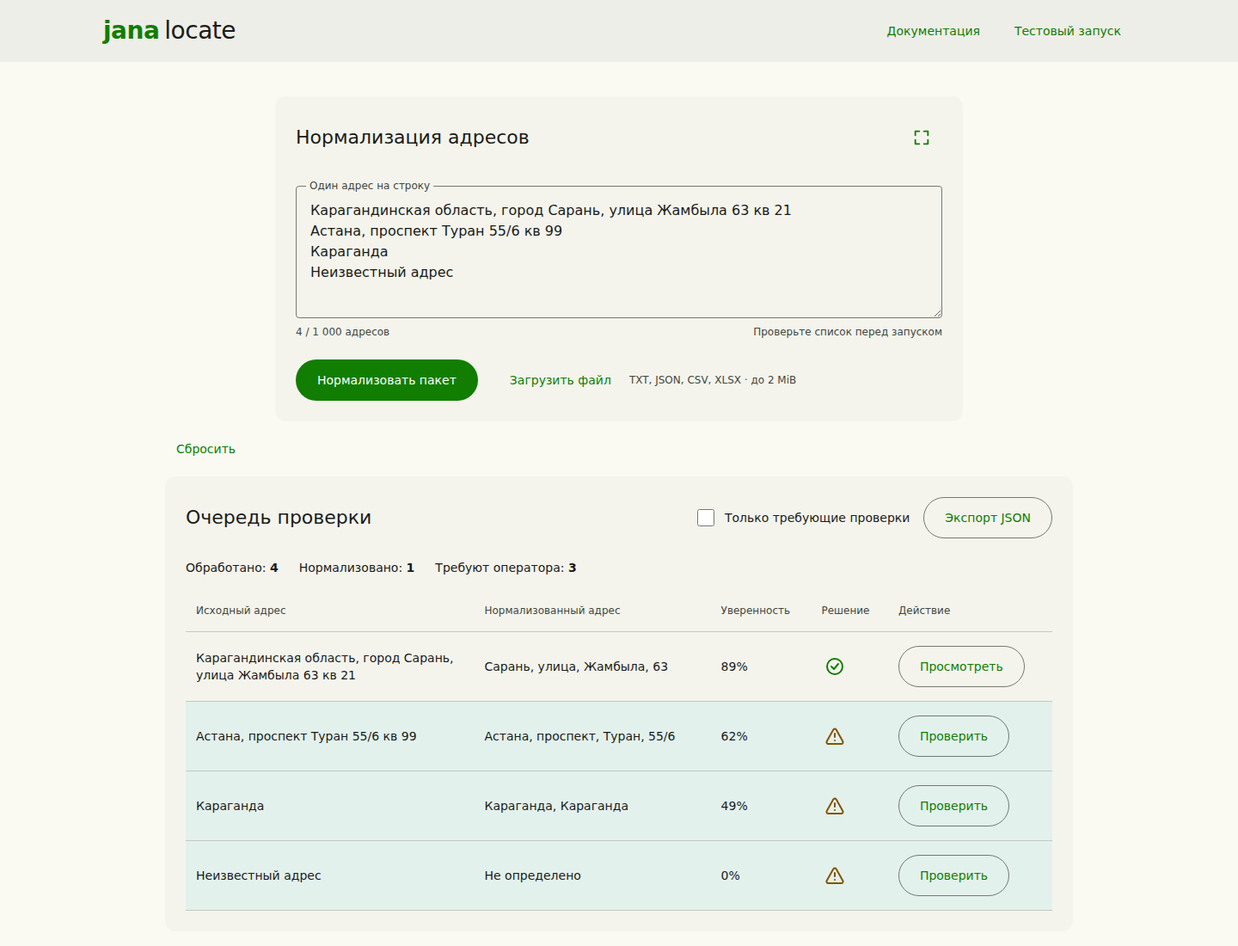
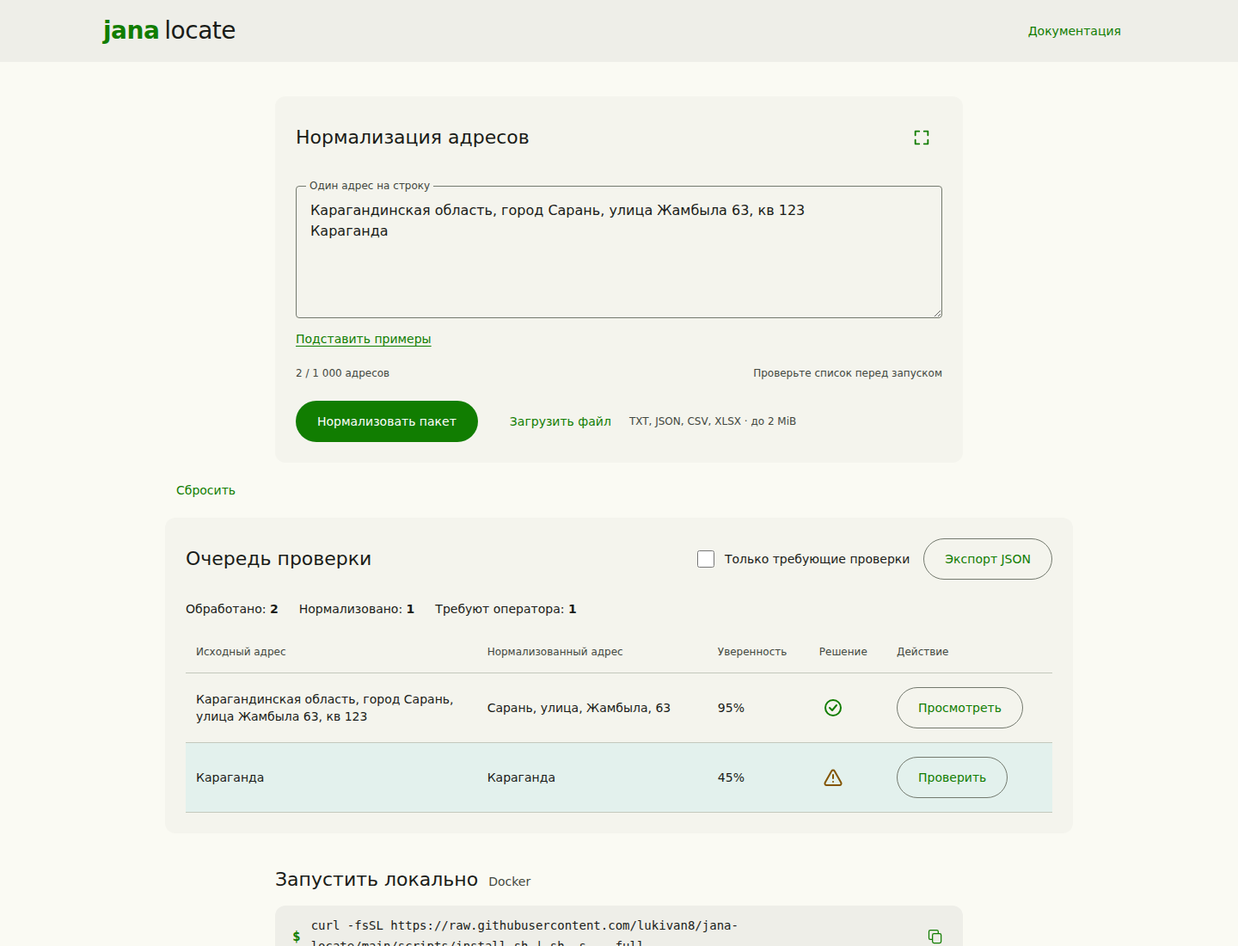
docs: guide hackathon reviewers through website, download and batch request

diff --git a/README.md b/README.md
@@ -1,107 +1,91 @@
 <p align="center">
-  <a href="https://jana.linker.kz"><img src="docs/assets/banner.svg" alt="Открыть Jana Locate — jana.linker.kz" width="100%"></a>
+  <a href="https://jana.linker.kz"><img src="docs/assets/banner.svg" alt="Jana Locate — нормализация адресов Казахстана" width="100%"></a>
 </p>
-
-<h2 align="center"><a href="https://jana.linker.kz">Открыть приложение → jana.linker.kz</a></h2>
-<p align="center"><strong>Готовая веб-версия — попробуйте прямо в браузере, без локальной установки.</strong></p>
 
 <p align="center">
   <a href="https://github.com/lukivan8/jana-locate/actions/workflows/ci.yml"><img src="https://github.com/lukivan8/jana-locate/actions/workflows/ci.yml/badge.svg" alt="Проверки приложения"></a>
-  <a href="https://github.com/lukivan8/jana-locate/actions/workflows/docs.yml"><img src="https://github.com/lukivan8/jana-locate/actions/workflows/docs.yml/badge.svg" alt="Проверки документации и примеров"></a>
   <a href="LICENSE"><img src="https://img.shields.io/badge/лицензия-MIT-315d38" alt="Лицензия MIT"></a>
   <img src="https://img.shields.io/badge/география-Казахстан-315d38" alt="География: Казахстан">
 </p>
 
 # Jana Locate
 
-**Превратите адресную строку в структурированные поля и подключите нормализацию к своему сервису по HTTP.** Jana Locate разбирает адреса Казахстана, сохраняет исходный ввод, показывает неизвестные поля и неоднозначности. Для проверки результатов есть веб-интерфейс, для файлов и PostgreSQL — локальный CLI.
+**Адреса Казахстана → структурированные поля → проверка спорных записей → JSON.**
 
-[**Открыть приложение ↗**](https://jana.linker.kz) · [Быстрый запуск](#быстрый-запуск-готовые-контейнеры) · [Подключение API](docs/integration.md) · [Примеры кода](examples/http/README.md) · [Документация](docs/README.md) · [Сообщить об ошибке](https://github.com/lukivan8/jana-locate/issues/new/choose)
+Jana Locate выделяет населённый пункт, область, район, улицу, дом и детали доставки из свободного текста. Сервис сохраняет исходный ввод, показывает неизвестные поля и предлагает оператору разрешить неоднозначность. Подключается к вашему приложению по HTTP; после подготовки локальных образов работает без интернета и внешних AI API.
 
-> [!TIP]
-> **Организаторам: [запустите Docker API](#только-api--скачать-и-запустить-одной-командой), затем [отправьте batch JSON](#первый-batch-запрос-после-запуска).** OpenAPI запущенного контейнера: [`http://localhost:8080/openapi.json`](http://localhost:8080/openapi.json). Для знакомства в браузере доступен [jana.linker.kz](https://jana.linker.kz).
+[**Попробовать на сайте ↗**](https://jana.linker.kz/geocoder) · [Скачать и запустить](#скачать-и-запустить-v020) · [Отправить batch-запрос](#первый-batch-запрос) · [Документация](docs/README.md)
 
-## Релиз для хакатона — v0.2.0
+## Первый запуск на сайте
 
-[Сценарий показа и запуск из исходников](docs/hackathon-demo.md) · [Скачать релиз](https://github.com/lukivan8/jana-locate/releases/tag/v0.2.0). Версия включает libpostal, справочники и компактную числовую CRF-модель. `make demo` собирает полный стенд; после сборки обработка работает офлайн. Готовые контейнеры 0.1.0 ниже относятся к предыдущему выпуску.
+Установка и регистрация не нужны.
 
-## Что можно сделать
+1. Откройте [разбор одного адреса](https://jana.linker.kz/geocoder).
+2. Вставьте строку ниже и нажмите **«Разобрать адрес»**.
+3. Сравните выделенные поля с исходной строкой.
 
-| Задача | Как использовать Jana Locate |
+```text
+Павлодар, улица Тестовая, дом 73; 41 пәтер; 2 кіреберіс; 4 қабат
+```
+
+| Поле | Результат |
 | --- | --- |
-| Нормализовать адрес при создании заказа | Вызвать `POST /v1/normalize` из своего backend |
-| Обработать накопленные адреса | Отправлять пакеты до 1000 записей, сохраняя ID и порядок |
-| Проверить спорные результаты | Открыть веб-интерфейс, исправить поля и экспортировать JSON |
-| Обработать колонку PostgreSQL | Запустить локальный CLI: снимок → нормализация → проверка → явная публикация |
-| Работать с файлами без БД | Передать текстовый или JSON-файл в CLI |
-| Развернуть в закрытой сети | Заранее собрать образы; при работе загрузка моделей и внешние API не нужны |
+| Область / населённый пункт | Павлодарская область / Павлодар |
+| Улица / дом | улица Тестовая / 73 |
+| Квартира / подъезд / этаж | 41 / 2 / 4 |
 
-Нормализация выделяет область, населённый пункт, район, жилой массив, улицу, дом и детали доставки. Например, из строки `Астана, проспект Туран 55/6 кв 99` извлекаются компоненты адреса; неизвестные значения остаются `null`. Конкретный результат зависит от режима парсера и снимка справочников.
+Пример синтетический: он показывает смешанный русский и казахский ввод, а не подтверждает существование здания. Неизвестные значения остаются `null`.
 
-## Как нормализуется адрес
+**Для проверки пакета** откройте [главную страницу](https://jana.linker.kz), вставьте несколько адресов — по одному на строку — или загрузите TXT, JSON, CSV, XLSX. Нажмите «Нормализовать пакет», откройте спорную запись, исправьте поля и нажмите «Подтвердить адрес». Задание сохраняется по ссылке и восстанавливается после обновления страницы; «Экспорт JSON» скачивает результаты.
 
-На [jana.linker.kz](https://jana.linker.kz) работает пайплайн **libpostal + справочники Казахстана + компактная CRF-модель**:
+Попробуйте отдельную строку `Караганда`: одно название совместимо с городом и селом. Интерфейс позволяет явно выбрать населённый пункт по справочнику.
 
-1. **Подготовка.** Система сохраняет исходную строку и очищает рабочую копию от невидимых символов и лишних пробелов.
-2. **Разбор.** libpostal выделяет компоненты адреса, а правила явных обозначений дополняют их по маркерам вроде `дом`, `кв`, `подъезд` и `этаж`.
-3. **Справочники.** КАТО и OSM помогают сопоставить названия и их варианты, согласовать населённый пункт с областью и дополнить район по подготовленным связям улиц и домов. Неоднозначности передаются оператору вместе с результатом.
-4. **Числовая модель.** Обученная на размеченных синтетических адресах CRF определяет по контексту дом, квартиру, подъезд и этаж. Проверенные предложения дополняют пустые поля, сохраняя результат основного разбора. Веса модели занимают около **211 КиБ**.
-5. **Ответ.** API возвращает структурированные поля, оценку уверенности, статус и предупреждения с сохранением ID и порядка записей. Весь процесс работает офлайн на заранее подготовленных моделях и справочниках.
+![Jana Locate: пакет адресов и очередь проверки](docs/assets/workspace.png)
 
-Например, в строке `Павлодар, улица Тестовая, дом 73; 41 пәтер; 2 кіреберіс; 4 қабат` основной разбор выделяет город, улицу и дом, а числовая модель дополняет **квартиру 41, подъезд 2 и этаж 4**. Пример синтетический.
+*Актуальный интерфейс на синтетических адресах, native libpostal и справочниках Казахстана.*
 
-## Быстрый запуск: готовые контейнеры
+[Сценарий показа на 3–5 минут](docs/hackathon-demo.md) · [2000 синтетических примеров](https://jana.linker.kz/examples)
 
-**Локальный Jana Locate полностью автономен.** Модели libpostal и справочники Казахстана уже включены в образ. После скачивания контейнеров обработка работает без интернета, hosted API, регистрации и внешних ключей. Go, Node.js, Python, Git и сборка исходников для установки не нужны.
+## Скачать и запустить v0.2.0
 
-Для API достаточно **Docker Engine или Docker Desktop**. Для комплектов с установщиком дополнительно нужны Compose v2, curl и shell. Последний комплект готовых контейнеров — **[0.1.0](https://github.com/lukivan8/jana-locate/releases/tag/v0.1.0)** для `linux/amd64`. На ARM используется эмуляция amd64 средствами Docker; нативный ARM-образ пока не выпускается.
-
-### API + Web + CLI — комплект по умолчанию
+[**Скачать релиз v0.2.0**](https://github.com/lukivan8/jana-locate/releases/tag/v0.2.0) — исходники, компактная CRF-модель и контрольные суммы. Для локального запуска нужны Docker Engine/Desktop с Compose v2, `make`, `curl` и `tar` (Linux, macOS или WSL).
 
 ```sh
-curl -fsSL https://raw.githubusercontent.com/lukivan8/jana-locate/main/scripts/install.sh | sh -s -- full
+curl --fail --location \
+  https://github.com/lukivan8/jana-locate/releases/download/v0.2.0/jana-locate-v0.2.0-source.tar.gz \
+  --output jana-locate-v0.2.0-source.tar.gz
+tar -xzf jana-locate-v0.2.0-source.tar.gz
+cd jana-locate-v0.2.0
+make demo
 ```
 
-Полный комплект включает автономный API на `http://localhost:8080`, встроенный веб-интерфейс на `http://localhost:8095` и CLI для файлов и PostgreSQL. Локальный интерфейс открывается без логина и пароля. PostgreSQL автоматически не устанавливается: можно подключить свою базу или работать с файлами. Порты по умолчанию доступны только на этой машине.
+Первая сборка скачивает зависимости и модели libpostal: подготовьте её до показа, с интернетом. Для работы стенда нужно около **4 GiB свободной памяти сверх Docker и ОС**. После сборки нормализация не требует подключения к публичному сайту.
 
-После установки в терминале появятся URL OpenAPI и команда batch-запроса, а в `jana-locate/` — готовый `batch.example.json`. [Проверить свои адреса через API →](#первый-batch-запрос-после-запуска)
+| Что открыть | Локальный URL |
+| --- | --- |
+| Веб-интерфейс | [localhost:13008](http://localhost:13008) |
+| HTTP API | `http://localhost:18088` |
+| OpenAPI | [localhost:18088/openapi.json](http://localhost:18088/openapi.json) |
+
+`make demo-status` показывает состояние, `make demo-stop` останавливает стенд с сохранением заданий и исправлений. [Повторный запуск без скачиваний](docs/hackathon-demo.md#локальный-запуск).
+
+> Готовые контейнеры и установщик **v0.1.0** относятся к предыдущему выпуску без нового числового слоя. Для проверки актуального решения используйте сайт или сборку v0.2.0 выше. [Установка готовых контейнеров](docs/quickstart.md).
+
+## Первый batch-запрос
+
+Можно сразу вызвать публичный API из терминала с `curl`; скачивать проект для этого не требуется. Адреса будут отправлены на `jana.linker.kz`. Для автономной обработки используйте запущенный локальный API с тем же контрактом.
+
+**1. Выберите API и скачайте его OpenAPI:**
 
 ```sh
-cd jana-locate
-./jana status      # состояние контейнеров
-./jana down        # остановить с сохранением данных
-./jana up          # снова запустить установленные образы, без скачивания и сборки
+JANA_API_URL=https://jana.linker.kz
+curl --fail --retry 30 --retry-all-errors --retry-delay 2 "$JANA_API_URL/readyz"
+curl --fail-with-body "$JANA_API_URL/openapi.json" --output openapi.json
 ```
 
-### Только API — скачать и запустить одной командой
+Для локального v0.2.0 замените первую строку на `JANA_API_URL=http://localhost:18088`. Следующие команды выполняйте в том же терминале. В Postman можно импортировать скачанный `openapi.json`.
 
-```sh
-docker run -d --name jana-locate --platform linux/amd64 \
-  --restart unless-stopped -p 127.0.0.1:8080:8080 \
-  -v jana-locate-api-data:/data \
-  ghcr.io/lukivan8/jana-locate-api:0.1.0
-```
-
-Docker сам скачает готовый образ и запустит API на `http://localhost:8080`. Первый старт загружает модели в память; дождитесь успешного ответа `/readyz` перед отправкой адресов. Для этого пути не нужны Compose, Git, компиляторы, ключи внешних сервисов или подготовка моделей. Данные сохраняются в томе; остановка — `docker stop jana-locate`, повторный запуск — `docker start jana-locate`.
-
-Если нужен единый launcher для управления контейнерами, используйте [установщик](docs/quickstart.md) в режиме `api`. [Исходник установщика](scripts/install.sh).
-
-### Первый batch-запрос после запуска
-
-Команды выполняются **на вашем компьютере**, рядом с Docker; клонировать репозиторий и заходить в контейнер не нужно. Понадобятся curl и shell (Linux, macOS или WSL).
-
-**1. Дождитесь готовности и скачайте OpenAPI именно запущенного API:**
-
-```sh
-curl --fail --retry 30 --retry-all-errors --retry-delay 2 http://localhost:8080/readyz
-curl --fail-with-body http://localhost:8080/openapi.json -o openapi.json
-```
-
-Контракт также можно открыть по [`http://localhost:8080/openapi.json`](http://localhost:8080/openapi.json) или импортировать этот URL/файл в Postman. В исходниках он лежит в [`backend/api/openapi.json`](backend/api/openapi.json).
-
-**2. Создайте `batch.example.json` с несколькими адресами:**
-
-Если использовали установщик, выполните `cd jana-locate` (или перейдите в выбранный каталог установки): пример уже лежит там, этот шаг можно пропустить.
+**2. Создайте `batch.example.json`:**
 
 ```sh
 cat > batch.example.json <<'JSON'
@@ -109,14 +93,10 @@ cat > batch.example.json <<'JSON'
   "records": [
     {
       "id": "test-1",
-      "raw_address": "Астана, проспект Туран 55/6 кв 99"
+      "raw_address": "Павлодар, улица Тестовая, дом 73; 41 пәтер; 2 кіреберіс; 4 қабат"
     },
     {
       "id": "test-2",
-      "raw_address": "Алматы, улица Абая 10, подъезд 2, этаж 3"
-    },
-    {
-      "id": "test-3",
       "raw_address": "Караганда"
     }
   ]
@@ -124,117 +104,49 @@ cat > batch.example.json <<'JSON'
 JSON
 ```
 
-Примеры синтетические; последняя строка намеренно неоднозначна. Для своей проверки замените записи на тестовые адреса, сохранив поля `id` и `raw_address`.
+Это синтетические примеры. Для своей проверки замените строки, сохранив поля `id` и `raw_address`.
 
-**3. Отправьте файл и сохраните ответ:**
+**3. Отправьте пакет и сохраните ответ:**
 
 ```sh
-curl --fail-with-body --max-time 310 http://localhost:8080/v1/normalize \
-  -H 'Content-Type: application/json' \
+curl --fail-with-body --max-time 310 "$JANA_API_URL/v1/normalize" \
+  --header 'Content-Type: application/json' \
   --data-binary @batch.example.json \
   --output batch-results.json
 cat batch-results.json
 ```
 
-Это синхронный batch endpoint: ответ `{"results":[...]}` сразу содержит по одному результату на каждую запись в исходном порядке, с теми же `id` и `raw_address`. В установке через скрипт `batch.example.json` уже находится в каталоге `jana-locate/`, а команда печатается после запуска. Если меняли порт, замените `8080` в URL.
+Ответ `{"results":[...]}` содержит результат для каждой записи **в исходном порядке, с теми же ID и точными исходными строками**. У `test-1` будут квартира `41`, подъезд `2`, этаж `4`; у `test-2` — статус `needs_review` и предупреждение о неоднозначности населённого пункта.
 
-Для оценки качества сравните адресные поля из `results` со своим эталоном по ID/позиции. HTTP 200 означает успешную обработку, а `status`, `warnings` и `null` показывают полноту и неоднозначность; `confidence` не является измеренной точностью. **[Лимиты, поля результата и ошибки →](docs/quickstart.md#первый-batch-запрос-после-запуска)**
+Лимиты одного запроса: **1–1000 записей**, до **4096 байт UTF-8 на адрес**, тело до **2 MiB**. Передавайте ID строками, особенно большие числовые ключи. HTTP 200 означает, что пакет обработан; оценивайте поля, `status` и `warnings`. `confidence` — эвристическая оценка для приоритизации проверки, а не измеренная точность.
 
-### Другие комплекты
+[Поля ответа и ошибки](backend/docs/consumer-guide.md) · [Интеграция](docs/integration.md) · [Примеры JavaScript, Python и Go](examples/http/README.md) · [OpenAPI](backend/api/openapi.json)
 
-Укажите `api` для одного нормализатора или `web` для API и отдельного веб-интерфейса на `http://localhost:3000`. Без аргумента установщик выбирает `full`.
-
-### Hosted API — без локального нормализатора
-
-Если размещать нормализатор у себя не требуется, вызывайте **`https://jana.linker.kz/v1/normalize`** с тем же JSON-контрактом. [Пример подключения к hosted API](docs/integration.md#локальный-и-hosted-api).
-
-Локальный интерфейс/CLI можно использовать с hosted API:
-
-```sh
-curl -fsSL https://raw.githubusercontent.com/lukivan8/jana-locate/main/scripts/install.sh | sh -s -- hosted
-```
-
-Этот вариант скачивает только контейнер интерфейса/CLI и отправляет адреса на `jana.linker.kz`. Пароль PostgreSQL остаётся локально. Для полностью автономной обработки выбирайте `api`, `web` или `full`.
-
-## Подключение к своему сервису
-
-Jana Locate — отдельный HTTP-сервис. Выберите свой автономный экземпляр или hosted endpoint `https://jana.linker.kz`; формат запросов одинаков.  Ваше приложение отправляет адреса и получает JSON; ему не нужны Go, Node.js, доступ к исходникам или прямой доступ к справочнику.
+## Как устроено решение
 
 ```text
-Ваш сервис ── POST /v1/normalize ──► Jana Locate
-           ◄── поля, статус, предупреждения ──
+Свободный текст → libpostal → правила и КАТО/OSM → числовая CRF → HTTP JSON
+                                                               ↓
+                                              проверка оператором и экспорт
 ```
 
-- Передавайте ID строками, особенно если они превышают безопасный диапазон JavaScript.
-- Сохраняйте исходный адрес вместе с результатом; `null` означает, что поле не определено.
-- Направляйте `needs_review` и `unmatched` на проверку по правилам вашего продукта.
-- `matched` означает полноту основных полей без выявленной неоднозначности. Это не подтверждение существования дома или географической позиции.
-- `confidence` — эвристическая оценка для приоритизации проверки, а не измеренная вероятность правильного ответа.
+- **Согласование со справочниками Казахстана.** Названия и варианты сопоставляются с КАТО/OSM, согласуются населённый пункт и область, район дополняется по подготовленным свидетельствам. В снимке 66 339 сущностей и 1 078 711 адресных свидетельств; покрытие частичное.
+- **Компактное числовое дополнение.** Собственная CRF-модель с весами около 211 КиБ дополняет пустые дом, квартиру, подъезд и этаж. Заполненные поля и географические кандидаты сохраняются; при отказе слоя остаётся основной разбор. Основную память системы занимает libpostal.
+- **Сохранение неоднозначности.** Сервис не выбирает произвольный город или село с одинаковым названием. Оператор видит варианты и может явно выбрать сущность.
+- **Полный процесс проверки.** Пакеты, исправления и экспорт доступны в браузере. Локальный CLI работает с файлами и PostgreSQL: исходная таблица читается, публикация в связанную таблицу выполняется явно, пароль БД остаётся локально.
 
-**[Руководство подключения →](docs/integration.md)** · [JavaScript](examples/http/normalize.mjs) · [Python](examples/http/normalize.py) · [Go](examples/http/go/main.go) · [OpenAPI](backend/api/openapi.json)
+[Архитектура](docs/architecture.md) · [Справочники и происхождение данных](backend/docs/reference.md) · [CLI для файлов и PostgreSQL](cli/README.md)
 
-## Проверка результатов в браузере
+## Проверки и ограничения
 
-**[Открыть готовое приложение на jana.linker.kz →](https://jana.linker.kz)** Для локального запуска интерфейс доступен на `http://localhost:3000`.
+Релиз v0.2.0 проверен Go race-тестами и vet, сборкой и проверкой типов frontend, Python-тестами числового слоя и **49 браузерными сценариями**: 33 для frontend и 16 для CLI с PostgreSQL. Проверены desktop и 390×844, исправление и экспорт, сохранение данных после перезапуска, отказ числового сервиса и работа без внешней сети. [Подробности проверки](docs/hackathon-demo.md#проверки-выпуска).
 
-![Интерфейс Jana Locate: импорт адресов и очередь проверки](docs/assets/workspace.png)
+География — **Казахстан**. Нормализация не выдаёт координаты и не подтверждает существование здания. `matched` означает полноту основных полей без выявленной неоднозначности. Независимая точность на реальных адресах пока не заявляется; демонстрационные примеры и оценки синтетические. [Результаты и ограничения числового слоя](docs/numeric-recovery-results.md).
 
-*Скриншот актуального приложения на синтетических адресах. Резервный режим без native libpostal явно показывает предупреждения.*
+У API нет встроенной авторизации. Для собственного публичного развёртывания нужны TLS, аутентификация и ограничения на шлюзе. [Развёртывание](docs/deployment.md).
 
-1. Вставьте строки или загрузите файл.
-2. Выполните нормализацию и откройте требующие проверки записи.
-3. Проверьте предупреждения, исправьте поля; при омонимах выберите населённый пункт явно.
-4. Сохраните исправления и экспортируйте результат.
+## Документация и лицензия
 
-Пакет хранится как задание: его можно открыть по ссылке и продолжить после обновления страницы. Серверные задания хранятся до 7 дней после изменения; лимит — 50 заданий / 64 MiB. [Работа с интерфейсом](docs/web.md) · [API заданий](backend/docs/jobs.md).
+[Все руководства](docs/README.md) · [Backend](backend/README.md) · [Frontend](frontend/README.md) · [Разработка и участие](CONTRIBUTING.md) · [Сообщить об ошибке](https://github.com/lukivan8/jana-locate/issues/new/choose)
 
-## Локальная работа с файлами и PostgreSQL
-
-```sh
-cd jana-locate
-./jana connect
-./jana normalize
-```
-
-CLI поднимает API и встроенный сайт проверки; PostgreSQL пользователь подключает отдельно. Исходная таблица остаётся доступной только для чтения. По явной команде готовые результаты публикуются в отдельную связанную таблицу. Пароль базы не передаётся нормализатору. Адресные строки и временные позиционные ID отправляются на выбранный API.
-
-Файловый режим не требует подключения к базе. Прогресс и правки хранятся в локальном SQLite-журнале. **[Руководство CLI →](cli/README.md)**
-
-## Что важно знать перед внедрением
-
-- **География — Казахстан.** Язык и письменность ввода не выбирают другую страну.
-- **Геокодирование не входит в нормализацию.** Совместимые поля `coordinates`, `catalog_id`, `catalog_revision` у новых результатов равны `null`.
-- **Покрытие справочников частичное.** Включены 66 339 сущностей КАТО/OSM и 1 078 711 адресных свидетельств без координат. Это не гарантия наличия каждого адреса страны. [Источники и покрытие](backend/docs/reference.md).
-- **Неоднозначность сохраняется.** Одинаковое название города и села само по себе не позволяет выбрать одну сущность.
-- **Точность на независимых реальных данных пока не заявляется.** Встроенные примеры и разметка синтетические.
-- **У API нет встроенной авторизации.** Для доступа из внешней сети нужны TLS, аутентификация и ограничения на вашем шлюзе. [Развёртывание](docs/deployment.md).
-- **Локальный сервис полностью автономен после скачивания образов.** Модели и справочники входят в контейнер; `jana.linker.kz` не нужен для его работы. Hosted API — отдельный выбор пользователя.
-
-## Устройство проекта
-
-| Каталог | Ответственность |
-| --- | --- |
-| [`backend/`](backend/README.md) | Независимый Go API: libpostal, правила, КАТО/OSM, задания и SDK |
-| [`frontend/`](frontend/README.md) | Независимое веб-приложение; обращается к внешнему API по HTTP |
-| [`cli/`](cli/README.md) | Локальный потребитель API, PostgreSQL/файлы, журнал и встроенный интерфейс |
-| [`docs/`](docs/README.md) | Подключение, запуск, эксплуатация и архитектура |
-| [`examples/http/`](examples/http/README.md) | Запускаемые примеры интеграции |
-
-Jana Locate — основной публичный репозиторий. Историческое имя Go-модуля backend `github.com/lukivan8/jana-address` сохранено для совместимости; отдельный репозиторий не нужен для подключения по HTTP. [Архитектура и совместимость](docs/architecture.md).
-
-## Разработка и участие
-
-```sh
-make reference      # подготовить SQLite из включённого публичного снимка
-make check          # Go race/vet, frontend build/typecheck, контракты и CLI
-make generate       # обновить DTO и принятые снимки OpenAPI
-make smoke          # изолированный Docker-сценарий и персистентность
-make cli-smoke      # CLI, PostgreSQL и публикация
-make offline-smoke  # подготовленные образы без внешней сети
-```
-
-[Как внести изменение](CONTRIBUTING.md) · [Правила общения](CODE_OF_CONDUCT.md) · [Сообщить об уязвимости](SECURITY.md) · [План развития](docs/roadmap.md)
-
-## Лицензия и данные
-
-Исходный код и документация проекта — [MIT](LICENSE), © 2026 lukivan8. Сторонние библиотеки, модели и данные распространяются на собственных условиях; MIT не заменяет их лицензии. OSM: © OpenStreetMap contributors, [ODbL 1.0](https://www.openstreetmap.org/copyright). [Источники и атрибуция](THIRD_PARTY_NOTICES.md).
+Код и документация — [MIT](LICENSE), © 2026 lukivan8. Сторонние модели и данные сохраняют собственные условия. OSM: © OpenStreetMap contributors, ODbL 1.0. [Источники и атрибуция](THIRD_PARTY_NOTICES.md).

diff --git a/docs/assets/README.md b/docs/assets/README.md
@@ -1,7 +1,7 @@
 # Иллюстрации проекта
 
 - `banner.svg` — векторный баннер для README, без внешних шрифтов и скриптов.
-- `workspace.png` — реальный интерфейс на синтетических адресах, резервный режим с подготовленным справочником и без native libpostal. Это иллюстрация сценария, не измерение качества.
+- `workspace.png` — актуальная очередь проверки v0.2.0 на синтетических адресах, native libpostal и подготовленных справочниках Казахстана; снято на отдельном временном хранилище. Это иллюстрация сценария, не измерение качества.
 - `social-preview.svg` — исходник карточки ссылки.
 - `social-preview.png` — карточка 1280×640 для GitHub Social preview; файл меньше 1 MB.
 
